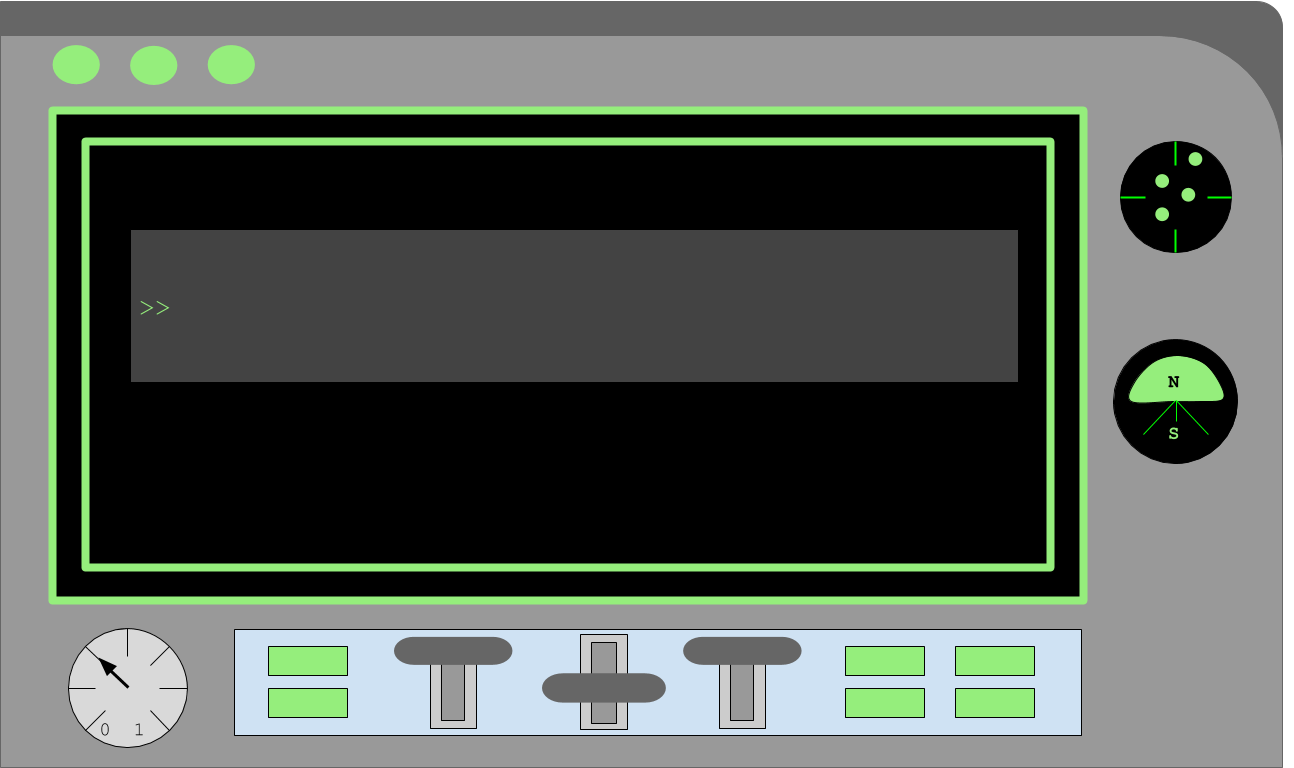
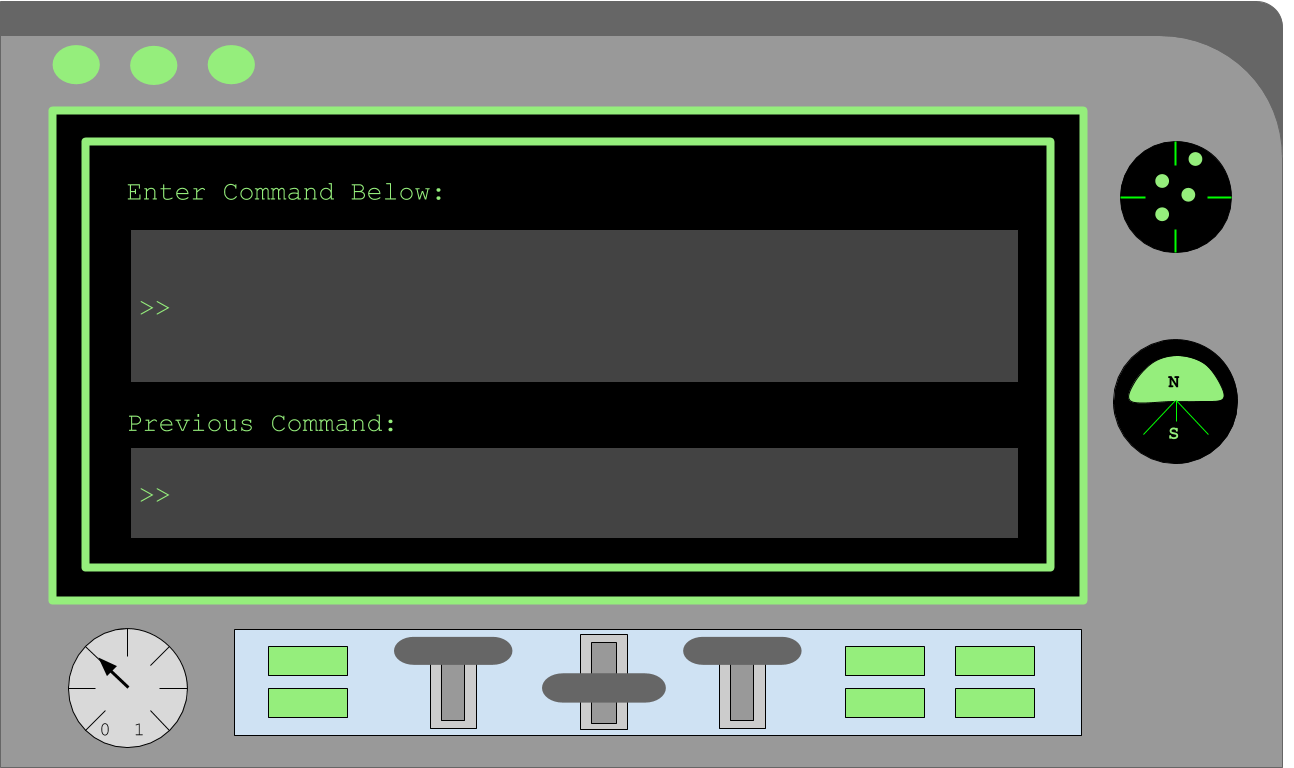
Placement for prev command fixed

diff --git a/content/english/sql_workshop/activity12/_activity12.js b/content/english/sql_workshop/activity12/_activity12.js
@@ -31,7 +31,7 @@ function sql()
   
   if(input == ans1)
   {
-    document.getElementById("story").innerHTML = "That's the correct command! Did you figure out who the inventor is?";
+    document.getElementById("story").innerHTML = "That's the correct command to show all the attendees!";
     green();
     
     /* Changes terminal screen */

diff --git a/content/english/sql_workshop/activity1/_activity1.css b/content/english/sql_workshop/activity1/_activity1.css
@@ -4,4 +4,5 @@
   padding-left: 10vw;
   padding-bottom: 0vw;
   padding-right: 2vw;
+  background-image: url('../media/Terminal_old.png');
 }

diff --git a/content/english/sql_workshop/default/_type.css b/content/english/sql_workshop/default/_type.css
@@ -33,6 +33,7 @@
   border: 1px solid black;
   opacity: 0.7;
   padding: 1vw 0;
+  margin-top: 7vw;
 }
 
 .prev h3 {

diff --git a/content/english/sql_workshop/activity12/_index.md b/content/english/sql_workshop/activity12/_index.md
@@ -17,20 +17,11 @@ draft: false
 <script type="text/javascript" src="_activity12.js"></script>
 <!-- Embed YouTube Video Link here when ready -->
 
-## All the guests are here! We need to find the Inventor before it's too late!
+### All the guests are here! We need to find the Inventor before it's too late!
 
 Everyone is having a good time at the party! The inventor has also arrived, now we need to figure out who the inventor is! No one knows what the inventor looks like, but the Dear Leader has given you hints on how to find the inventor!
 
-### The Information You Are Given:
-{{%notice info%}}
-* The Inventor's favorite food is Pizza.
-
-* The Inventor's favorite subject is Math.
-
-* The Inventor's favorite movie is "Big Hero 6".
-{{%/notice%}}
-
-### Task 12: Using the database called "people", figure out who the inventor is!
+### Task 12: Display the entire database called "people" so we can look at all the attendees.
 {{%notice tip%}}
 * Hint 1: The command you use should display the entire "people" database.
 * Hint 2: The command is similar to the one in activity 1 (Learn the `SELECT` command).
@@ -39,10 +30,12 @@ Everyone is having a good time at the party! The inventor has also arrived, now 
 {{< rawhtml >}}
 <div class="terminal_div" id="terminal_div">
 	<div class = "outer">
-		<h3 id = "commands" contenteditable="true" onclick="document.getElementById('commands').innerHTML = ''"> Type command here!<h3>
+		<h3 id = "commands" contenteditable="true" onclick="document.getElementById('commands').innerHTML = ''"> Type command here!</h3>
 	</div>
+  <div class = "prev">
+      <h3 id = "prev"></h3>
+    </div>
 	<div style="clear: both;"></div> 
-	</br></br></br></br></br></br>
 	<button class="button button1" onclick="sql()"> Enter </button>
 	<div style="clear: both;"></div> 
 	<button class = "button reset" onclick="document.getElementById('commands').innerHTML = ''">Reset</button>
@@ -52,7 +45,19 @@ Everyone is having a good time at the party! The inventor has also arrived, now 
 <table id="table">
 	<tr></tr>
 </table>
+<h3 id="story"></h3>
+{{< /rawhtml >}}
 
+### Here are some hints to figure out who the "Inventor" is:
+{{%notice info%}}
+* The Inventor's favorite food is Pizza.
+
+* The Inventor's favorite subject is Math.
+
+* The Inventor's favorite movie is "Big Hero 6".
+{{%/notice%}}
+
+{{< rawhtml >}}
 <div class = "inventor_div" id="inventor_div">
   <div class = "box_half" id = "box_half">
 	  <div class = "text_box">

diff --git a/content/english/sql_workshop/activity5/_index.md b/content/english/sql_workshop/activity5/_index.md
@@ -22,7 +22,7 @@ draft: false
 
 You have discovered that the planet's leader is in a hut on the tallest hill but to get to it, you need to find the largest ladder in the Capital of Fun!
 
-The Galactic Federation has sent you four new SQL commands to play around with! Lets take a look at them!
+The Galactic Federation has sent you four new SQL commands to play around with! Let's take a look at them!
 
 
 ### What the commands do:
@@ -53,8 +53,10 @@ Condition:
 * You can use commas inside the parenthesis to choose more than one column to show or not show.
 {{%/notice%}}
 
-### Now use what you learned! Using the database called 'items' with a column labeled 'object', find the tallest 'ladder'.
+### Now use what you learned! Using the database called 'items' with columns labeled 'object' and 'height', find the tallest 'ladder'.
 {{%notice tip%}}
+You can display the database using the command from activity 1.
+
 * Hint 1: Remember the advice from the Galactic Federation: `SELECT [column/column property] FROM [database] [optional condition];`
 
 * Hint 2: Column property: Do you need to use `MAX()` or `MIN()` to find the tallest ladder?
@@ -67,7 +69,7 @@ Condition:
 {{%/notice%}}
 
 {{%notice info%}}
-* BONUS: try to use multiple inputs inside `IN()` or `NOT IN()` when searching for the ladder
+* BONUS: Try to use multiple inputs inside `IN()` or `NOT IN()` when searching for the ladder
 * This command is very powerful in searching multiple types of objects
 {{%/notice%}}
 <!-- SQL Type In Activity -->
@@ -76,10 +78,12 @@ Condition:
 
   <div class="terminal_div" id="terminal_div">
     <div class = "outer">
-      <h3 id = "commands" contenteditable="true" onclick="document.getElementById('commands').innerHTML = ''"> Type command here!<h3>
+      <h3 id = "commands" contenteditable="true" onclick="document.getElementById('commands').innerHTML = ''"> Type command here!</h3>
+    </div>
+    <div class = "prev">
+      <h3 id = "prev"></h3>
     </div>
     <div style="clear: both;"></div> 
-    </br></br></br></br></br></br>
     <button class="button button1" onclick="sql()"> Enter </button>
     <div style="clear: both;"></div> 
     <button class = "button reset" onclick="document.getElementById('commands').innerHTML = ''">Reset</button>

diff --git a/content/english/sql_workshop/activity8/_index.md b/content/english/sql_workshop/activity8/_index.md
@@ -36,6 +36,8 @@ the Confetti Cannon (reminder: the Confetti Cannon was created on 1738-09-12).
 
 #### Using the database called 'items' with a column labeled 'date_created', find the Infinite Buffet Table!
 {{%notice tip%}}
+You can use the command in activity 1 to display the entire database.
+
 * Hint 1: The format for the date is Year-Month-Day.
 * Hint 2: This Totem was created a month AFTER the Confetti Cannon (1738-09-12).
 * Hint 3: What is the pattern? Do you need to look for the month at the beginning, end, or anywhere of the value?
@@ -46,10 +48,12 @@ the Confetti Cannon (reminder: the Confetti Cannon was created on 1738-09-12).
 
 <div class="terminal_div" id="terminal_div">
     <div class = "outer">
-      <h3 id = "commands" contenteditable="true" onclick="document.getElementById('commands').innerHTML = ''"> Type command here!<h3>
+      <h3 id = "commands" contenteditable="true" onclick="document.getElementById('commands').innerHTML = ''"> Type command here!</h3>
+    </div>
+    <div class = "prev">
+      <h3 id = "prev"></h3>
     </div>
     <div style="clear: both;"></div> 
-    </br></br></br></br></br></br>
     <button class="button button1" onclick="sql()"> Enter </button>
     <div style="clear: both;"></div> 
     <button class = "button reset" onclick="document.getElementById('commands').innerHTML = ''">Reset</button>
@@ -62,7 +66,7 @@ the Confetti Cannon (reminder: the Confetti Cannon was created on 1738-09-12).
   <h4 id="story"></h4>
 
 <div id="legend" style="visibility:hidden">
-  <p> You found the location of the Legendary Totem of Fun: Infinite Buffet Table! Now we will travel to Fun Capital!</p>
+  <h4> You found the location of the Legendary Totem of Fun: Infinite Buffet Table! Now we will travel to Fun Capital!</h4>
 </div>
 
 <br>

diff --git a/content/english/sql_workshop/activity4/_index.md b/content/english/sql_workshop/activity4/_index.md
@@ -27,7 +27,9 @@ To do so, let's take a look at how to select multiple columns in a database.
 #### Now use what you learned to find out who is the leader of the Planet of Fun!
 
 {{%notice tip%}}
-**The Galactic Federation sends you a reminder that the 'galaxy' database holds the following columns:**
+You can view the entire database using the `SELECT * FROM [database_name];` command that you learned in activity 1.
+
+**The Galactic Federation also sends you a reminder that the 'galaxy' database holds the following columns:**
 
 * planet_number: What order the planets show up in the database.
 
@@ -40,6 +42,7 @@ To do so, let's take a look at how to select multiple columns in a database.
 * coordinate: The location of the planet in the galaxy.
 
 **Hint: Only two columns are needed.**
+
 {{%/notice%}}
 
 ### Question: Using the 'galaxy' database, how do you display only the _names of the_ planets and their leader?
@@ -52,10 +55,12 @@ Don't forget the semicolon at the end!
 {{< rawhtml >}}
   <div class="terminal_div" id="terminal_div">
     <div class = "outer">
-      <h3 id = "commands" contenteditable="true" onclick="document.getElementById('commands').innerHTML = ''"> Type command here!<h3>
+      <h3 id = "commands" contenteditable="true" onclick="document.getElementById('commands').innerHTML = ''"> Type command here!</h3>
     </div>
-        <div style="clear: both;"></div> 
-        </br></br></br></br></br></br>
+    <div class = "prev">
+      <h3 id = "prev"></h3>
+    </div>
+      <div style="clear: both;"></div> 
     <button class="button button1" onclick="sql()"> Enter </button>
     <div style="clear: both;"></div> 
     <button class = "button reset" onclick="document.getElementById('commands').innerHTML = ''">Reset</button>

diff --git a/content/english/sql_workshop/activity6/_index.md b/content/english/sql_workshop/activity6/_index.md
@@ -40,13 +40,15 @@ To help you out, the Galactic Federation has sent you a brief tutorial on how to
 ### Using the database called 'items' with the column labeled 'date_created', find out which artifact is the Legendary Totem of Fun: Confetti Cannon
 
 {{%notice tip%}}
+You can display the database using the command from activity 1.
+
 * Hint 1: The artifact is created on '1738-09-12' (Use single quotation marks around the date).
 * Hint 2: What comparator do you need to use to find an exact match?
 * Hint 3: The correct command follows closely to the example above.
 * Hint 4: You do not need single quotation marks around the column or database names in this command.
 * Hint 5: What symbol do you need at the end of a SQL command?
 
-* BONUS: Display all items created on and after '1738-09-12' as well
+* BONUS: Display all items created on and after '1738-09-12' as well!
 {{%/notice%}}
 
 <!-- SQL Type In Activity -->
@@ -54,10 +56,12 @@ To help you out, the Galactic Federation has sent you a brief tutorial on how to
 
   <div class="terminal_div" id="terminal_div">
     <div class = "outer">
-      <h3 id = "commands" contenteditable="true" onclick="document.getElementById('commands').innerHTML = ''"> Type command here!<h3>
+      <h3 id = "commands" contenteditable="true" onclick="document.getElementById('commands').innerHTML = ''"> Type command here!</h3>
+    </div>
+    <div class = "prev">
+      <h3 id = "prev"></h3>
     </div>
     <div style="clear: both;"></div> 
-    </br></br></br></br></br></br>
     <button class="button button1" onclick="sql()"> Enter </button>
     <div style="clear: both;"></div> 
     <button class = "button reset" onclick="document.getElementById('commands').innerHTML = ''">Reset</button>

diff --git a/content/english/sql_workshop/activity7/_index.md b/content/english/sql_workshop/activity7/_index.md
@@ -31,6 +31,8 @@ and can only be unlocked with the smallest key on the planet!
 
 #### Using the database called 'items' with a column labeled 'object', find the 'key' with the smallest height.
 {{%notice tip%}}
+You can display the entire database using the command from activity 1.
+
 * Hint 1: Remember the advice from the Galactic Federation: `SELECT [column/column property] FROM [database] [optional condition];`
 
 * Hint 2: Condition: `WHERE [column_name] [IN()/NOT IN()];` 
@@ -43,10 +45,12 @@ and can only be unlocked with the smallest key on the planet!
 
 <div class="terminal_div" id="terminal_div">
     <div class = "outer">
-      <h3 id = "commands" contenteditable="true" onclick="document.getElementById('commands').innerHTML = ''"> Type command here!<h3>
+      <h3 id = "commands" contenteditable="true" onclick="document.getElementById('commands').innerHTML = ''"> Type command here!</h3>
+    </div>
+    <div class = "prev">
+      <h3 id = "prev"></h3>
     </div>
     <div style="clear: both;"></div> 
-    </br></br></br></br></br></br>
     <button class="button button1" onclick="sql()"> Enter </button>
     <div style="clear: both;"></div> 
     <button class = "button reset" onclick="document.getElementById('commands').innerHTML = ''">Reset</button>
@@ -98,7 +102,7 @@ The height corresponds to the number of loops at the base of the key. The correc
 
 <!-- Next mission text displays -->
 <div id="text1" style="visibility:hidden">
-  <p> You found the Legendary Totem of Fun: Confetti Cannon! </p>
+  <h3> You found the Legendary Totem of Fun: Confetti Cannon! </h3>
 </div>
 
 <!-- Unhide the Confetti Cannon -->

diff --git a/content/english/sql_workshop/activity3/_index.md b/content/english/sql_workshop/activity3/_index.md
@@ -33,15 +33,6 @@ When we use the `SELECT * FROM planet;` command, the table above is displayed. B
 ### Question: Using `COUNT()`, what command will display the number of cities on the Planet of Fun?
 
 {{%notice tip%}}
-Press the Enter button on the terminal to check if you have the correct command. Use the Reset button to start over.
-
-* Hint 1: The Galactic Federation gave you the name of this database at the beginning of this activity
-* Hint 2: You can use either the asterisk (*) or a column name
-{{%/notice%}}
-
-### Question: Using `COUNT()`, what command will display the number of cities on the Planet of Fun?
-
-{{%notice tip%}}
 
 Press the Enter button on the terminal to check if you have the correct command. Use the Reset button to start over.
 
@@ -54,13 +45,12 @@ Press the Enter button on the terminal to check if you have the correct command.
 {{< rawhtml >}}
   <div class="terminal_div" id="terminal_div">
     <div class = "outer">
-      <h3 id = "commands" contenteditable="true" onclick="placeholder()">Type command here!<h3>
+      <h3 id = "commands" contenteditable="true" onclick="placeholder()">Type command here!</h3>
     </div>
     <div class = "prev">
-      <h3 id = "prev"><h3>
+      <h3 id = "prev"></h3>
     </div>
-    <div style="clear: both;"></div>
-    </br></br></br></br></br></br> 
+    <div style="clear: both;"></div> 
     <button class="button button1" onclick="sql()"> Enter </button>
     <div style="clear: both;"></div> 
     <button class = "button reset" onclick="reset()">Reset</button>

diff --git a/content/english/sql_workshop/activity10/_index.md b/content/english/sql_workshop/activity10/_index.md
@@ -35,9 +35,11 @@ Let's go over the `SUM` Command!
 
 ![Explain](assets/sum.png)
 
-#### Using the database 'planet' and the `SUM()` command, find the total guests for this amazing party!
+#### Using the database 'planet' and the `SUM()` command, find the total number of guests that will attend this amazing party!
 
 {{%notice tip%}}
+Use the command from activity 1 to display the entire database.
+
 * Hint 1: The command follows very closely to the example and the `AVG()` example (previous task).
 * Hint 2: The 'population' column holds information on the number of individuals per city.
 {{%/notice%}}
@@ -47,10 +49,12 @@ Let's go over the `SUM` Command!
 {{< rawhtml >}}
 <div class="terminal_div" id="terminal_div">
     <div class = "outer">
-      <h3 id = "commands" contenteditable="true" onclick="document.getElementById('commands').innerHTML = ''"> Type command here!<h3>
+      <h3 id = "commands" contenteditable="true" onclick="document.getElementById('commands').innerHTML = ''"> Type command here!</h3>
+    </div>
+    <div class = "prev">
+      <h3 id = "prev"></h3>
     </div>
     <div style="clear: both;"></div>
-    </br></br></br></br></br></br>
     <button class="button button1" onclick="sql()"> Enter </button>
     <div style="clear: both;"></div> 
     <button class = "button reset" onclick="document.getElementById('commands').innerHTML = ''">Reset</button>

diff --git a/content/english/sql_workshop/activity11/_index.md b/content/english/sql_workshop/activity11/_index.md
@@ -36,10 +36,12 @@ BONUS: Combine the `COUNT()` and `GROUP BY` commands to show the number of citie
 {{< rawhtml >}}
 <div class="terminal_div" id="terminal_div">
     <div class = "outer">
-      <h3 id = "commands" contenteditable="true" onclick="document.getElementById('commands').innerHTML = ''"> Type command here!<h3>
+      <h3 id = "commands" contenteditable="true" onclick="document.getElementById('commands').innerHTML = ''"> Type command here!</h3>
+    </div>
+    <div class = "prev">
+      <h3 id = "prev"></h3>
     </div>
     <div style="clear: both;"></div> 
-    </br></br></br></br></br></br>
     <button class="button button1" onclick="sql()"> Enter </button>
     <div style="clear: both;"></div> 
     <button class = "button reset" onclick="document.getElementById('commands').innerHTML = ''">Reset</button>
@@ -66,7 +68,7 @@ BONUS: Combine the `COUNT()` and `GROUP BY` commands to show the number of citie
 
 <br>
 
-<h5 id="plot" style="visibility:hidden"> You did it Space Cadet! Now the inhabitants can finally begin the party! </h5> 
+<h4 id="plot" style="visibility:hidden"> You did it Space Cadet! Now the inhabitants can finally begin the party! </h4> 
 
 <!-- Tells User to continue mission -->
 <div class="resume_plot" id="resume_plot" style="visibility:hidden">
